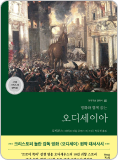
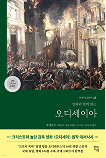
260904 - 맞춤도서 추천 con2 con3 스와이프 조절, 내용입력

diff --git a/sdh/curator.html b/sdh/curator.html
@@ -33,7 +33,7 @@
                     <div class="con2-subtitle">회원이 묻고 답하는 도서 추천</div>
                 </div>
                 <div class="swiper con2-cardlist-wrap">
-                    <ul class="cardlist swiper-wrapper">
+                    <ul class="con2-cardlist swiper-wrapper">
                         <li class="swiper-slide" id="blue">
                             <a href="#">
                                 <div class="con2-quest">
@@ -239,16 +239,13 @@
                     const con2cardlist = new Swiper('.con2-cardlist-wrap', {
                         breakpoints: {
                             100: {
-                                slidesPerView: 1.6,
-                                spaceBetween: 6,
+                                slidesPerView: 'auto',
                             },
                             769: {
-                                slidesPerView: 2,
-                                spaceBetween: 7,
+                                slidesPerView: 'auto',
                             },
                             1024: {
-                                slidesPerView: 2,
-                                spaceBetween: 8,
+                                slidesPerView: 'auto',
                             }
                         }
                     });
@@ -273,7 +270,7 @@
                     <div class="con2-subtitle">책의 핵심 정보만 쏙쏙 찾아주는 AI 독파밍</div>
                 </div>
                 <div class="swiper con3-cardlist-wrap">
-                    <ul class="cardlist swiper-wrapper">
+                    <ul class="con3-cardlist swiper-wrapper">
                         <li class="swiper-slide" id="card-blue">
                             <a href="#">
                                 <div class="con3-card-wrap">
@@ -285,7 +282,7 @@
                                         <h4>명화 속 오디세우스를
                                             찾아볼까요?</h4>
                                     </div>
-                                    <div con3-card-bk-cover>
+                                    <div class="con3-card-bk-cover">
                                         <img src="./img/con3-card-bk-cover1.png" alt="카드 북커버">
                                     </div>
                                     <div class="con3-card-btn">
@@ -305,8 +302,8 @@
                                     <div class="con3-card-title">
                                         <h4>당신이라면 어떻게 기억할까요?</h4>
                                     </div>
-                                    <div con3-card-bk-cover>
-                                        <img src="./img/con3-card-bk-cover1.png" alt="카드 북커버">
+                                    <div class="con3-card-bk-cover">
+                                        <img src="./img/con3-card-bk-cover2.png" alt="카드 북커버">
                                     </div>
                                     <div class="con3-card-btn">
                                         <img src="./img/con3-card-btn-icn.svg" alt="">
@@ -323,10 +320,11 @@
                                         <span>이 책의 질문</span>
                                     </div>
                                     <div class="con3-card-title">
-                                        <h4>당신이라면 어떻게 기억할까요?</h4>
+                                        <h4>니체가 말한 ‘초월’은
+                                            우리에게 어떤 의미일까?</h4>
                                     </div>
-                                    <div con3-card-bk-cover>
-                                        <img src="./img/con3-card-bk-cover1.png" alt="카드 북커버">
+                                    <div class="con3-card-bk-cover">
+                                        <img src="./img/con3-card-bk-cover3.png" alt="카드 북커버">
                                     </div>
                                     <div class="con3-card-btn">
                                         <img src="./img/con3-card-btn-icn.svg" alt="">
@@ -343,10 +341,11 @@
                                         <span>이 책의 질문</span>
                                     </div>
                                     <div class="con3-card-title">
-                                        <h4>당신이라면 어떻게 기억할까요?</h4>
+                                        <h4>당신은 어떤
+                                            여정을 떠나고 싶나요?</h4>
                                     </div>
-                                    <div con3-card-bk-cover>
-                                        <img src="./img/con3-card-bk-cover1.png" alt="카드 북커버">
+                                    <div class="con3-card-bk-cover">
+                                        <img src="./img/con3-card-bk-cover4.png" alt="카드 북커버">
                                     </div>
                                     <div class="con3-card-btn">
                                         <img src="./img/con3-card-btn-icn.svg" alt="">
@@ -363,10 +362,11 @@
                                         <span>이 책의 질문</span>
                                     </div>
                                     <div class="con3-card-title">
-                                        <h4>당신이라면 어떻게 기억할까요?</h4>
+                                        <h4>우리는 정말
+                                            시간이 부족한 걸까?</h4>
                                     </div>
-                                    <div con3-card-bk-cover>
-                                        <img src="./img/con3-card-bk-cover1.png" alt="카드 북커버">
+                                    <div class="con3-card-bk-cover">
+                                        <img src="./img/con3-card-bk-cover5.png" alt="카드 북커버">
                                     </div>
                                     <div class="con3-card-btn">
                                         <img src="./img/con3-card-btn-icn.svg" alt="">
@@ -383,10 +383,11 @@
                                         <span>이 책의 질문</span>
                                     </div>
                                     <div class="con3-card-title">
-                                        <h4>당신이라면 어떻게 기억할까요?</h4>
+                                        <h4>다른 마음이 공존할 때,
+                                            어떤 선택을 하게 될까?</h4>
                                     </div>
-                                    <div con3-card-bk-cover>
-                                        <img src="./img/con3-card-bk-cover1.png" alt="카드 북커버">
+                                    <div class="con3-card-bk-cover">
+                                        <img src="./img/con3-card-bk-cover6.png" alt="카드 북커버">
                                     </div>
                                     <div class="con3-card-btn">
                                         <img src="./img/con3-card-btn-icn.svg" alt="">
@@ -403,10 +404,11 @@
                                         <span>이 책의 질문</span>
                                     </div>
                                     <div class="con3-card-title">
-                                        <h4>당신이라면 어떻게 기억할까요?</h4>
+                                        <h4>진정한 나를
+                                            어떻게 찾을까요?</h4>
                                     </div>
-                                    <div con3-card-bk-cover>
-                                        <img src="./img/con3-card-bk-cover1.png" alt="카드 북커버">
+                                    <div class="con3-card-bk-cover">
+                                        <img src="./img/con3-card-bk-cover7.png" alt="카드 북커버">
                                     </div>
                                     <div class="con3-card-btn">
                                         <img src="./img/con3-card-btn-icn.svg" alt="">
@@ -421,17 +423,13 @@
                     const con3cardlist = new Swiper('.con3-cardlist-wrap', {
                         breakpoints: {
                             100: {
-                                slidesPerView: 1.6,
-                                spaceBetween: 6,
+                                slidesPerView: 'auto',
                             },
                             769: {
-                                slidesPerView: 2,
-                                spaceBetween: 7,
+                                slidesPerView: 'auto',
                             },
                             1024: {
-                                slidesPerView: 3.7,
-                                spaceBetween: 16,
-                                slidesOffsetAfter: 20
+                                slidesPerView: 'auto',
                             }
                         }
                     });

diff --git a/sdh/css/curator.css b/sdh/css/curator.css
@@ -24,7 +24,14 @@
     color: var(--black-400);
 }
 
-.con2-cardlist-wrap {
+.con2-cardlist,
+.con3-cardlist {
+    width: 100%;
+}
+
+.con2-cardlist-wrap,
+.con3-cardlist-wrap {
+    width: 100%;
     overflow-x: auto;
 }
 
@@ -110,32 +117,85 @@
     /* 보여줄 최대 줄 수 */
     -webkit-box-orient: vertical;
 }
-.con3-cardlist-wrap>ul{
+
+.con2-cardlist-wrap>.con2-cardlist>.swiper-slide:last-child {
+    margin-right: 5rem;
+}
+
+.con3-cardlist-wrap>ul {
     display: flex;
     gap: 1rem;
 }
 
-#blue{background-color: #405CBA;}
-#yellow{background-color: #BA9A40;}
-#purple{background-color: #B33CD0;}
-#red{background-color: #BA406D;}
-#deepblue{background-color: #0C1398;}
-#pink{background-color: #FF93BB;}
+.con3-cardlist-wrap>ul>li {
+    flex: 0 0 17.5rem;
+}
+
+#blue {
+    background-color: #405CBA;
+}
+
+#yellow {
+    background-color: #BA9A40;
+}
+
+#purple {
+    background-color: #B33CD0;
+}
+
+#red {
+    background-color: #BA406D;
+}
+
+#deepblue {
+    background-color: #0C1398;
+}
+
+#pink {
+    background-color: #FF93BB;
+}
 
 .con3-card-wrap {
     width: 17.5rem;
-    height: 26.25rem;
+    height: 28.25rem;
     padding: 2rem;
-    background-color: var(--blue-600);
-    background: url(../img/con3-card-bg-blue.png) no-repeat 50% 50% / cover;
     display: flex;
     gap: 1rem;
     flex-direction: column;
     align-items: center;
     justify-content: space-between;
-    border-radius: 1rem;
     box-sizing: border-box;
 }
+
+#card-blue {
+    background: url(../img/con3-card-bg-blue.png) no-repeat 50% 50% / cover;
+    border-radius: 1rem;
+}
+
+#card-green {
+    background: url(../img/con3-card-bg-green.png) no-repeat 50% 50% / cover;
+    border-radius: 1rem;
+}
+
+#card-yellow {
+    background: url(../img/con3-card-bg-yellow.png) no-repeat 50% 50% / cover;
+    border-radius: 1rem;
+}
+
+#card-purple {
+    background: url(../img/con3-card-bg-purple.png) no-repeat 50% 50% / cover;
+    border-radius: 1rem;
+}
+
+#card-red {background: url(../img/con3-card-bg-red.png) no-repeat 50% 50% / cover;
+    border-radius: 1rem;}
+
+#card-scarlet {
+    background: url(../img/con3-card-bg-scarlet.png) no-repeat 50% 50% / cover;
+    border-radius: 1rem;
+}
+
+
 
 
 .con3-card-badge>span,
@@ -143,24 +203,41 @@
     color: #fff;
 
 }
-.con3-card-badge{
+
+.con3-card-badge {
     border: 1px solid #fff;
     background-color: rgba(27, 27, 27, 0.7);
     padding: 0.25rem 0.5rem;
     border-radius: 90rem;
 }
-.con3-card-title{
+
+.con3-card-title {
     font-weight: var(--fw2);
     display: -webkit-box;
     -webkit-line-clamp: 2;
     text-align: center;
     word-break: keep-all
 }
-.con3-card-btn{
+
+.con3-card-btn {
     background-color: #fff;
     padding: 0.5rem 3rem;
     display: flex;
     gap: 0.25rem;
     border-radius: 50rem;
 }
+
+.con3-cardlist-wrap>.con3-cardlist>.swiper-slide:last-child {
+    margin-right: 6rem;
+}
+
+
+.con3-card-bk-cover img{
+    border: 1px solid var(--black-200);
+    line-height: 0;
+    object-fit: cover;
+    border-radius: 0.5rem;
+    box-sizing: content-box;
+}
+
 
